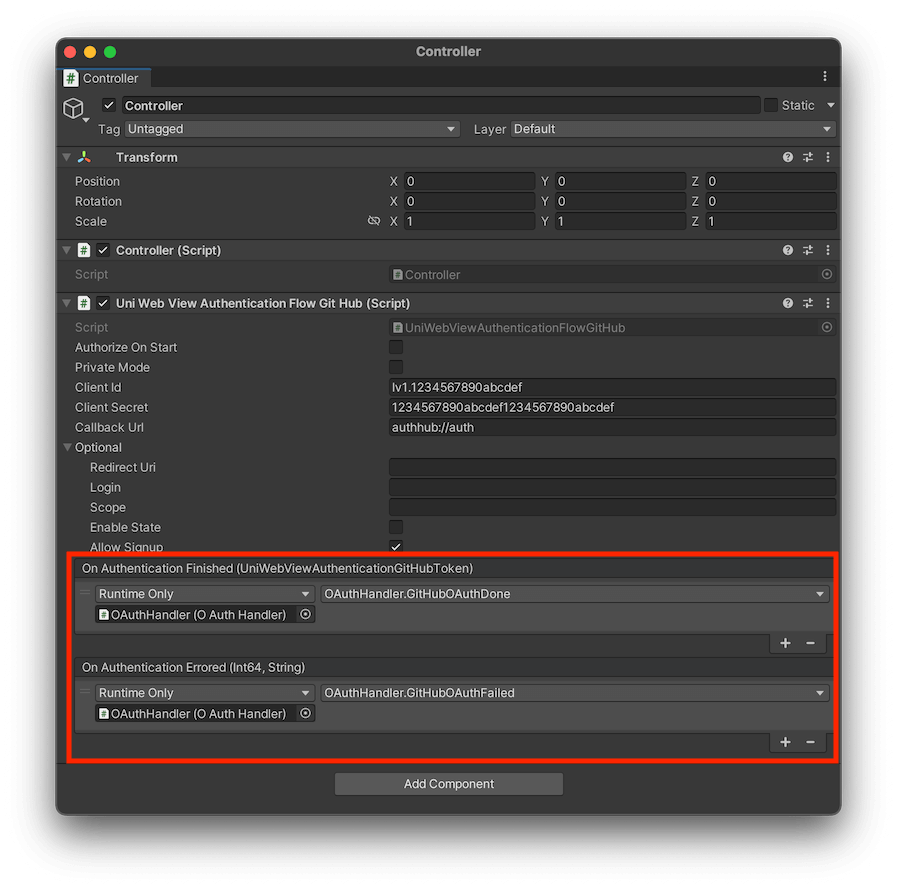
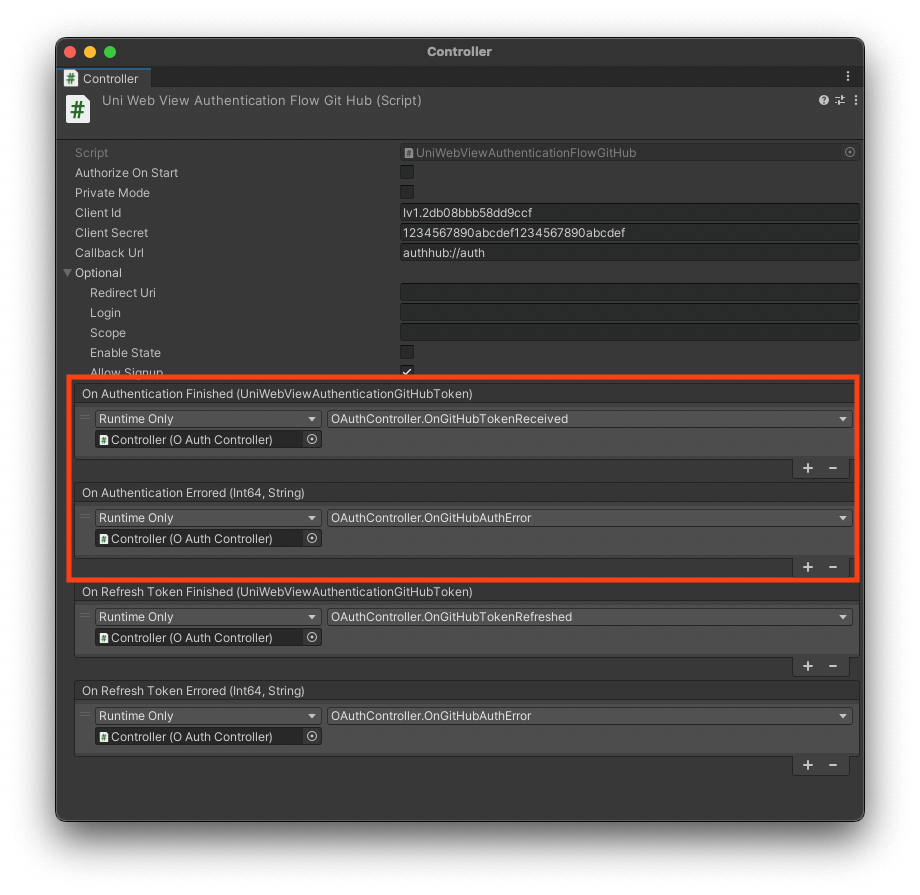
Update doc for token store/refresh

Changed region(s): [[0.0312, 0.0304, 0.9677, 0.9111], [0.7492, 0.1822, 0.8116, 0.2733], [0.4682, 0.0304, 0.5307, 0.0607]]

diff --git a/docs/guide/oauth2.md b/docs/guide/oauth2.md
@@ -118,11 +118,11 @@ Create an empty game object (Unity Menu, GameObject -> Create Empty) to the scen
 In the new `OAuthHandler.cs`, add the following code:
 
 ```csharp
-public void GitHubOAuthDone(UniWebViewAuthenticationGitHubToken token) {
+public void OnGitHubTokenReceived(UniWebViewAuthenticationGitHubToken token) {
     Debug.Log("Token received: " + token.AccessToken);
 }
 
-public void GitHubOAuthFailed(long errorCode, string errorMessage) {
+public void OnGitHubAuthError(long errorCode, string errorMessage) {
     Debug.Log("Error happened: " + errorCode + " " + errorMessage);
 }
 ```
@@ -149,7 +149,7 @@ Alternative, you can turn on the "Authorize On Start" option in the `UniWebViewA
 provides an easy way if you want to start the authentication flow automatically when the component starts.
 :::
 
-The GitHub authentication should work now. By running the scene, a web view will be opened and navigate to the GitHub authorization page. You can now log in with your GitHub account to the GitHub app, and get a valid access token in `GitHubOAuthDone` callback:
+The GitHub authentication should work now. By running the scene, a web view will be opened and navigate to the GitHub authorization page. You can now log in with your GitHub account to the GitHub app, and get a valid access token in `OnGitHubTokenReceived` callback:
 
 ![](/images/github-login.png)
 
@@ -157,6 +157,49 @@ When log in successfully, you can find the following console log with the retrie
 
 ```
 Token received: ${YOUR_ACCESS_TOKEN}
+```
+
+### Store & Read the Token
+
+Sometimes, you may want to store the token locally. UniWebView, as a web view component and with its OAuth support, does not provide any storage for the token. You need to implement it yourself.
+
+You can read the [`RawValue` string of the token](/api/UniWebViewAuthenticationStandardToken.html#rawvalue), and store it on the device or on your server. Remember the token is sensitive data, you should not store it in plain text. Usually, it is a good idea to encrypt it before storing it.
+
+> There are several ways to encrypt and store a string in Unity, for example, the [SecurePlayerPrefs](https://assetstore.unity.com/packages/tools/input-management/secureplayerprefs-35160) is a good one.
+
+When you need to use the token, you can read it from the storage and create a new `UniWebViewAuthenticationStandardToken` object with the raw value:
+
+```csharp
+var rawValue = // Read the raw value from the storage
+var token = new UniWebViewAuthenticationGitHubToken(rawValue);
+
+// Or, if you are using a subclass of UniWebViewAuthenticationStandardToken, use its `Parse` method:
+var token = UniWebViewAuthenticationTokenFactory<UniWebViewAuthenticationTwitterToken>.Parse(rawValue);
+```
+
+### Refresh Token
+
+If in the token, there is a non-null `RefreshToken` property, it usually suggests that you can use it to refresh the access token.
+
+In any compatible flow (in this example, the `UniWebViewAuthenticationFlowGitHub`), there is a `StartRefreshTokenFlow` method. You can pass the refresh token in, and the flow will try to communicate with 
+the service provider and refresh the token. Similar to the access token authentication flow, the refresh token result will be returned in the callback too. 
+
+But instead of setting the methods for "On Authentication Finished" and "On Authentication Errored", this time you need to set "On Refresh Token Finished" and "On Refresh Token Errored":
+
+
+![](/images/refresh-action-list.png)
+
+
+```csharp
+public void OnGitHubTokenRefreshed(UniWebViewAuthenticationGitHubToken token) {
+    Debug.Log("Token refreshed: " + token.AccessToken);
+}
+
+var rawValue = // Read the raw value from the storage
+var token = new UniWebViewAuthenticationGitHubToken(rawValue);
+if (token.RefreshToken != null) {
+    githubFlow.StartRefreshTokenFlow(token.RefreshToken);
+}
 ```
 
 ## Other Properties
@@ -173,7 +216,7 @@ When this is enabled, the authentication flow will start automatically when the 
 
 The system will remember the session for a certain service. Unless the user logs out from the service in the web view,
 it will just reuse the last credentials if available when the user tries to log in again. To disable this behavior and
-allow user to choose another account, set the "Private Mode" option to "true".
+allow the user to choose another account, set the "Private Mode" option to "true".
 
 ::: warning VERSIONS
 When enabled, the web view will try to open the authorization page in private (incognito) mode.
@@ -187,8 +230,8 @@ mode (and support for third-party use) in Chrome's settings. Check settings with
 
 ## Common Flow
 
-Besides of the built-in supported OAuth 2.0 providers, you can also use the common flow to let your user log in to any
-standard OAuth 2.0 provider. To adopt to a common flow, add the `UniWebViewAuthenticationFlowCustomize` component instead,
+Besides the built-in supported OAuth 2.0 providers, you can also use the common flow to let your user log in to any
+standard OAuth 2.0 provider. To adapt to a common flow, add the `UniWebViewAuthenticationFlowCustomize` component instead,
 and set the necessary properties like "Authorization Endpoint", "Token Endpoint", "Client Id" and other more:
 
 ![](/images/common-flow-component.png)
